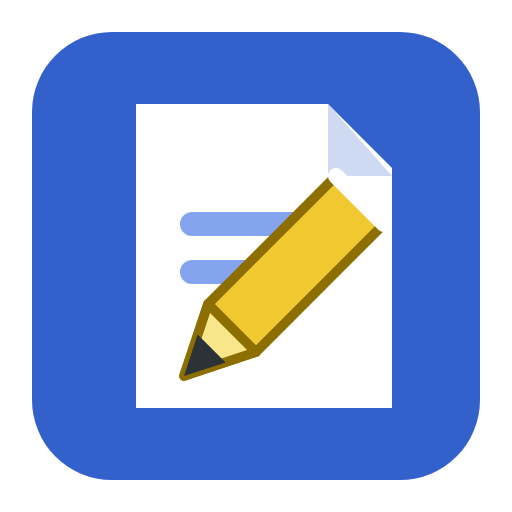
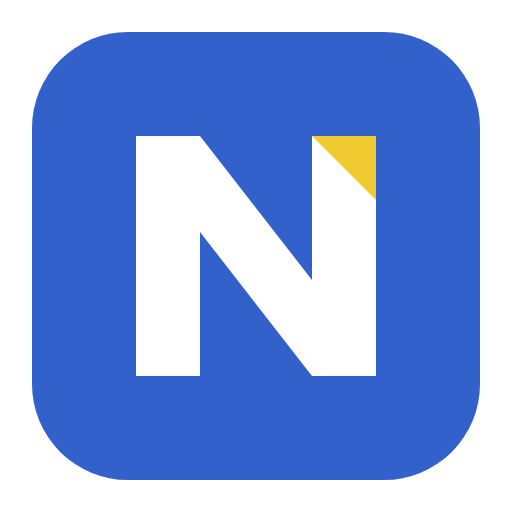
发布：EasyNote v0.1.7，更新品牌图标

diff --git a/easynote/test/ui.spec.ts b/easynote/test/ui.spec.ts
@@ -50,6 +50,7 @@ test('PWA metadata, install action, app-shell cache and API exclusion work', asy
   const manifestLink = page.locator('link[rel="manifest"]');
   await expect(manifestLink).toHaveAttribute('href', '/manifest.webmanifest');
   await expect(page.locator('link[rel="apple-touch-icon"]')).toHaveAttribute('href', '/apple-touch-icon.png');
+  await expect(page.locator('link[rel="apple-touch-icon"]')).toHaveAttribute('sizes', '180x180');
   const manifestResponse = await page.request.get('/manifest.webmanifest');
   expect(manifestResponse.status()).toBe(200);
   expect(manifestResponse.headers()['content-type']).toContain('manifest+json');
@@ -60,8 +61,8 @@ test('PWA metadata, install action, app-shell cache and API exclusion work', asy
   });
   expect(manifest).not.toHaveProperty('share_target');
   expect(manifest.icons).toEqual(expect.arrayContaining([
-    expect.objectContaining({ sizes: '192x192', type: 'image/png' }),
-    expect.objectContaining({ sizes: '512x512', type: 'image/png' }),
+    expect.objectContaining({ sizes: '192x192', type: 'image/png', purpose: 'any' }),
+    expect.objectContaining({ sizes: '512x512', type: 'image/png', purpose: 'any' }),
     expect.objectContaining({ sizes: '512x512', purpose: 'maskable' }),
   ]));
   for (const path of ['/pwa-192x192.png', '/pwa-512x512.png', '/pwa-maskable-512x512.png', '/apple-touch-icon.png']) {

diff --git a/easynote/vite.config.ts b/easynote/vite.config.ts
@@ -26,8 +26,8 @@ export default defineConfig({
         theme_color: '#3361cc',
         categories: ['productivity'],
         icons: [
-          { src: '/pwa-192x192.png', sizes: '192x192', type: 'image/png' },
-          { src: '/pwa-512x512.png', sizes: '512x512', type: 'image/png' },
+          { src: '/pwa-192x192.png', sizes: '192x192', type: 'image/png', purpose: 'any' },
+          { src: '/pwa-512x512.png', sizes: '512x512', type: 'image/png', purpose: 'any' },
           { src: '/pwa-maskable-512x512.png', sizes: '512x512', type: 'image/png', purpose: 'maskable' },
         ],
       },

diff --git a/easynote/index.html b/easynote/index.html
@@ -10,7 +10,7 @@
     <meta name="apple-mobile-web-app-title" content="EasyNote" />
     <meta name="apple-mobile-web-app-status-bar-style" content="default" />
     <link rel="icon" type="image/svg+xml" href="/easynote-icon.svg" />
-    <link rel="apple-touch-icon" href="/apple-touch-icon.png" />
+    <link rel="apple-touch-icon" sizes="180x180" href="/apple-touch-icon.png" />
     <title>EasyNote</title>
   </head>
   <body>

diff --git a/easynote/src/shared/version.ts b/easynote/src/shared/version.ts
@@ -1,2 +1,2 @@
 // Generated from versions.json. Run node scripts/version.mjs sync after editing the source.
-export const EASYNOTE_VERSION = '0.1.6';
+export const EASYNOTE_VERSION = '0.1.7';

diff --git a/easynote/README.md b/easynote/README.md
@@ -1,6 +1,6 @@
 # EasyNote
 
-当前版本：`0.1.6`
+当前版本：`0.1.7`
 
 一个面向个人或小团队的自托管 Markdown 笔记应用。React + TypeScript 前端，pdfmake 生成 PDF、PDF.js 分页预览，Cloudflare Worker API，D1 保存账号与笔记，私有 R2 保存图片与附件。
 

diff --git a/README.md b/README.md
@@ -8,7 +8,7 @@ Easy Suite 集中管理三个相互独立的实用工具。每个项目使用专
 | 项目 | 当前版本 |
 | --- | --- |
 | [EasyDrop](easydrop/) | `1.0.0` |
-| [EasyNote](easynote/) | `0.1.6` |
+| [EasyNote](easynote/) | `0.1.7` |
 <!-- versions:end -->
 
 ## 项目目录
